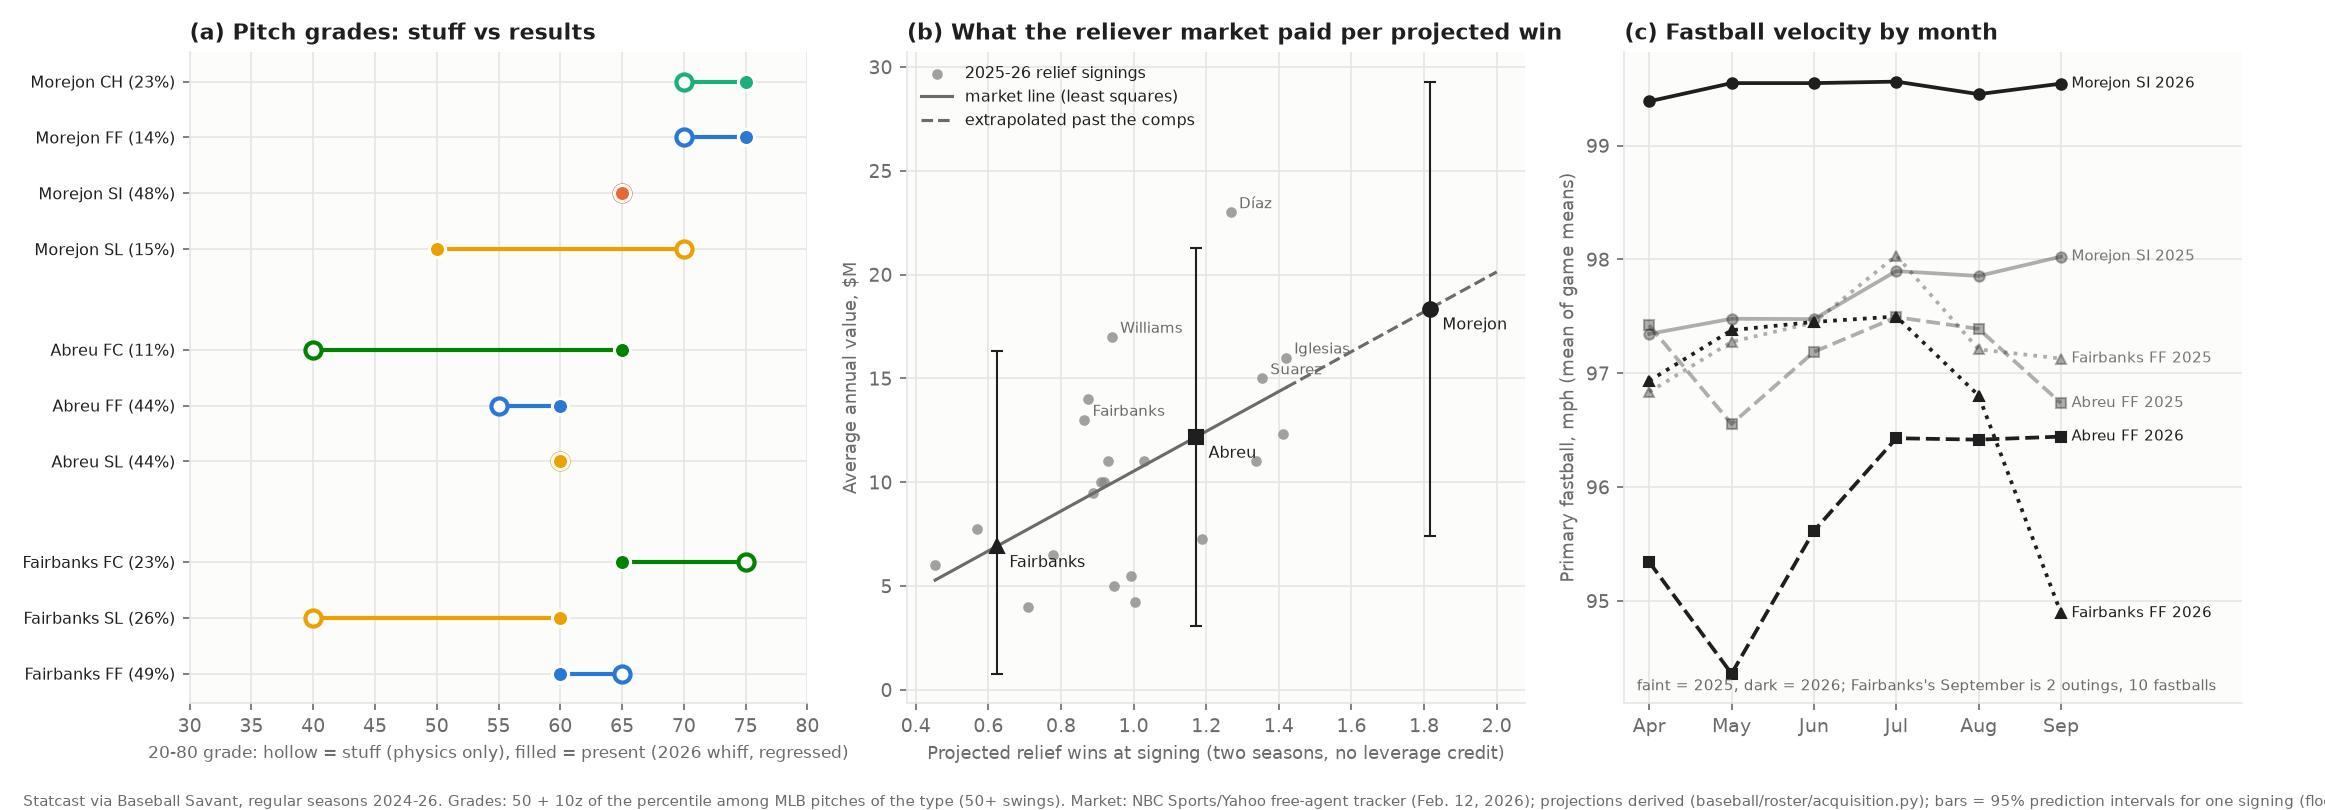
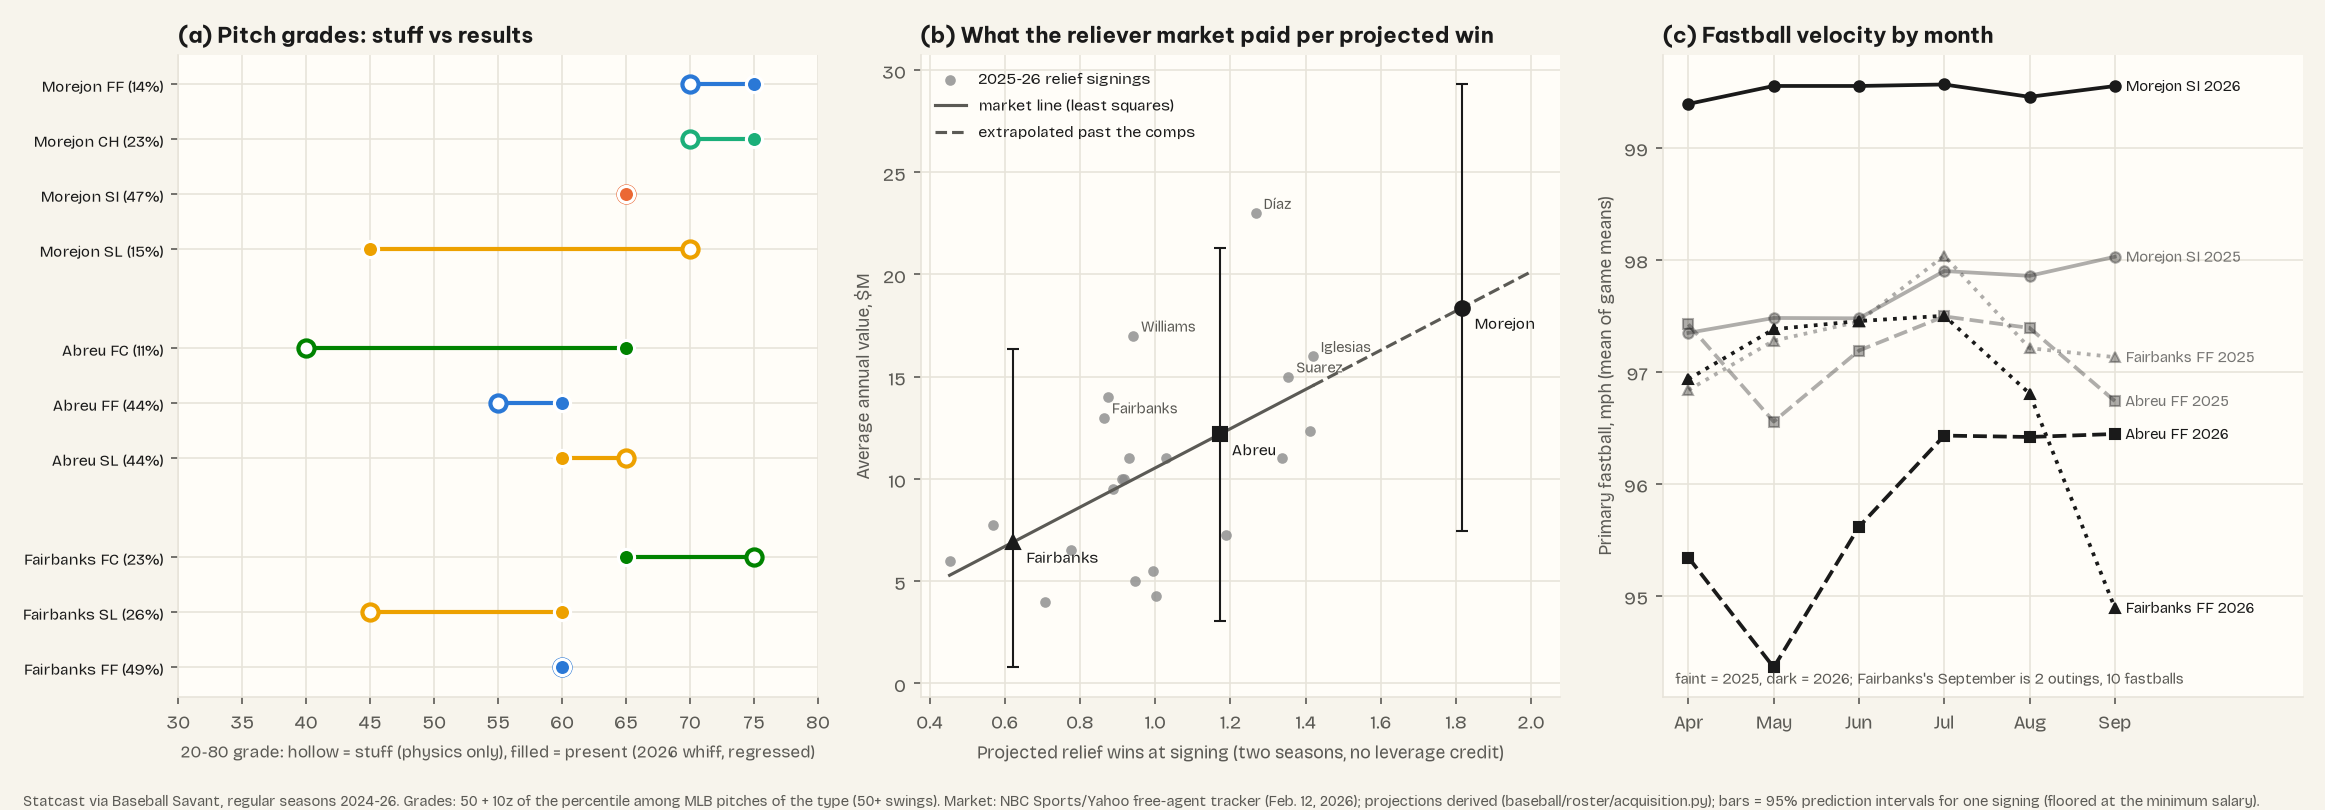
Bullpen memo: figure from the saved Oct. 17 run; Morejón's slider present grade is 45

diff --git a/tests/test_report_outputs.py b/tests/test_report_outputs.py
@@ -430,7 +430,7 @@ def test_bullpen_memo_model_numbers_are_the_saved_run():
     msl, mch, mff, asl = pitches[mo + "_SL"], pitches[mo + "_CH"], pitches[mo + "_FF"], pitches[ab + "_SL"]
     # single pitches quoted in prose
     assert f"**Stuff grade:** {msl['grade_stuff']} (expected whiff {msl['x_whiff_pct']:.0f}%, {msl['pct_stuff']:.0f}th percentile;" in memo
-    assert f"Graded 50 now and {msl['grade_next']} for 2027" in memo
+    assert f"Graded 45 now and {msl['grade_next']} for 2027" in memo
     assert f"**Stuff:** {pitches[ab + '_FC']['grade_stuff']} (ten refits gave" in memo
     assert f"the four-seamer ({sg(mff['gap'])}) and changeup ({sg(mch['gap'])}) beat their physics, and the slider ({sg(msl['gap'])}) trailed it" in memo
     assert f"got whiffs {mch['gap']:.0f} points above its physics" in memo
@@ -491,13 +491,13 @@ def test_reports_that_quote_pitch_grades_carry_the_refit_range():
     sg = lambda v: f"+{v:.1f}" if v >= 0 else f"\u2212{abs(v):.1f}"
     assert (f"ten refits gave {msl['grade_stuff']['lo']} to {msl['grade_stuff']['hi']} and {msl['x_whiff_pct']['lo']:.1f}% to "
             f"{msl['x_whiff_pct']['hi']:.1f}%)") in memo
-    assert msl["grade_stuff"]["lo"] >= 70 and printed["670970_SL"]["grade_stuff"] >= 70     # "far ahead of its results (50)" holds in every fit
+    assert msl["grade_stuff"]["lo"] >= 70 and printed["670970_SL"]["grade_stuff"] >= 70     # "far ahead of its results (45)" holds in every fit
     assert f"(ten refits gave {afc['grade_stuff']['lo']} to {afc['grade_stuff']['hi']})" in memo
     assert (f"Ten refits gave {sg(mff['gap']['lo'])} to {sg(mff['gap']['hi'])}, {sg(mch['gap']['lo'])} to {sg(mch['gap']['hi'])} and "
             f"{sg(msl['gap']['lo'])} to {sg(msl['gap']['hi'])}, so the signs hold") in memo
     assert mch["gap"]["lo"] > 0 and mff["gap"]["lo"] > 0 and msl["gap"]["hi"] < 0
     assert f"(ten refits gave {mch['proj_whiff_pct']['lo']:.1f}% to {mch['proj_whiff_pct']['hi']:.1f}%)" in memo and mch["pct_next"]["lo"] >= 98.5
-    assert f"ten refits gave {msl['grade_stuff']['lo']} to {msl['grade_stuff']['hi']}) is far ahead of its results (50)" in memo
+    assert f"ten refits gave {msl['grade_stuff']['lo']} to {msl['grade_stuff']['hi']}) is far ahead of its results (45)" in memo
     # no ranking or role rests on a grade that moved: the two best 2027 grades of each pitcher keep the formula OFP at its cap
     for pid, control in (("670970", 60), ("650556", 40), ("664126", 40)):
         lows = sorted((p["grade_next"]["lo"] for k, p in pitches.items() if k.startswith(pid)), reverse=True)

diff --git a/reports/2026-bullpen-acquisition-memo.md b/reports/2026-bullpen-acquisition-memo.md
@@ -21,7 +21,7 @@
 
 ![Pitch grades, the reliever market's price per projected win, and fastball velocity by month](figures/2026-bullpen-acquisition-memo.png)
 
-*Figure note (Nov. 15): the hollow stuff markers come from an earlier fit. Three sit 5 points from the tables below (Abreu's slider, Fairbanks's four-seamer and slider). The tables are the saved run.*
+*Figure note (Nov. 23): the figure is redrawn from the saved Oct. 17 run, so every marker matches the tables below.*
 
 ## Decision summary
 
@@ -122,7 +122,7 @@
 | Who misses the most bats next year? | **Edge engine** (validated two-season whiff projection, blends results and stuff): Abreu 33.1%, Morejón 31.0%, Fairbanks 29.8% | **The projection** (2024-26 relief run value, regressed; counts walks, contact and grounders): Morejón +0.83, Abreu +0.37, Fairbanks +0.18 | Both are right about different things. Abreu's gap is walks, which a whiff model can't see. Morejón's edge includes a 55% regressed ground-ball rate (Atlas year-to-year persistence 0.92). I rank on run value and use the whiff projection to establish that Abreu's swing-and-miss survived 2026 |
 | What is Morejón worth? | **Roster engine** ($/WAR tiers): about $30.7M a year | **Reliever market line:** his value is $18.1M; his expected price is $18.4M | They are on different win scales. This memo's wins use a fringe-arm replacement level that isn't calibrated to fWAR, and FanGraphs' $/WAR is set in fWAR (and excludes relievers). The engine column is an order of magnitude, not a price. I price only with the market line, which uses the same projection on both sides |
 | Did Fairbanks's slider get better? | **Levers study:** every confirmed slider lever he moved (drop +3.1 in, speed gap +1.5 mph, slot −1.6°) implies about +2.9 whiff points | **The stuff model** (levers version, fixed hand mix): expected whiff on the slider fell 5.9 points | The levers study's own result is that the single expected-whiff change predicts better than lever lists (pooled +7.5 points of squared error). Its slider-drop and speed-gap gains are also "not shown to last." His slider whiff jump (30.8% → 40.5%, 79 swings) is treated as mostly noise. Usage fell from 40% to 26%, which by itself lowers hitters' familiarity |
-| Is Morejón's slider a weakness? | **Stuff grade:** 70 (expected whiff 41%, 97th percentile; ten refits gave 70 to 75 and 41.6% to 44.4%) | **Present grade:** 50 (30% whiffs, 73 tracked swings) | Slider whiff reaches r = 0.5 at about 41 swings (Atlas), so the regressed rate already carries most of the weight, and it's average. Graded 50 now and 50 for 2027 (the engine's projection). A possible lever, not a flaw |
+| Is Morejón's slider a weakness? | **Stuff grade:** 70 (expected whiff 41%, 97th percentile; ten refits gave 70 to 75 and 41.6% to 44.4%) | **Present grade:** 45 (30% whiffs, 73 tracked swings) | Slider whiff reaches r = 0.5 at about 41 swings (Atlas), so the regressed rate already carries most of the weight, and it's a tick below average. Graded 45 now and 50 for 2027 (the engine's projection). A possible lever, not a flaw |
 | Abreu's cutter (new in 2026) | **Stuff:** 40 (ten refits gave 35 to 40) | **Present:** 65 (36% whiffs, 61 swings) | Results beating stuff carries over between seasons (edge engine, r ≈ 0.55), but 61 swings in one season isn't a pattern. It's 11% of his mix and doesn't drive the grade |
 
 ## 1. The need: why the Rangers, why a reliever
@@ -252,7 +252,7 @@ The mapping is 50 + 10z of the percentile, to the nearest 5 (Method).
 |---|---|---|---|---|---|---|---|---|
 | Sinker | 47.6% (55 / 43) | 99.5 | 9.2 / 16.0 | 19.3 (311) | 65 | 60 | 65 | His primary pitch. 58% ground balls overall |
 | Changeup | 23.1% (2 / 36) | 92.1 | −1.1 / 10.7 | 56.0 (182) | 75 | 75 | 70 | 7% of pitches in 2025, 23% in 2026; almost only to RHH |
-| Slider | 15.2% (27 / 8) | 89.4 | −0.5 / −5.7 | 29.9 (77; 73 tracked) | 50 | 50 | 70 | Results trail the physics (small sample) |
+| Slider | 15.2% (27 / 8) | 89.4 | −0.5 / −5.7 | 29.9 (77; 73 tracked) | 45 | 50 | 70 | Results trail the physics (small sample) |
 | Four-seamer | 14.2% (16 / 13) | 99.3 | 15.2 / 6.0 | 42.3 (123) | 75 | 75 | 70 | A carry four-seamer at 99 |
 | Control | uBB 6.0% (BB 8.0% with 7 intentional) | | | | 60 | 60 | | 2024-25 uBB 7.0% and 4.9% |
 
@@ -304,7 +304,7 @@ The mapping is 50 + 10z of the percentile, to the nearest 5 (Method).
 | Slider slot | −2.2° (lower) | +1.22 per 3° higher | Confirmed | −0.9 | Year-two gain, borderline |
 | Sinker velocity | +1.85 mph | +0.18 per mph | Not detected (sinkers) | +0.3 | Not followed |
 
-- **The open lever is the slider.** Its physics grade (70; ten refits gave 70 to 75) is far ahead of its results (50), and the study can't say which change would close that gap.
+- **The open lever is the slider.** Its physics grade (70; ten refits gave 70 to 75) is far ahead of its results (45), and the study can't say which change would close that gap.
 
 **Familiarity:**
 - **Low exposure:** as a reliever, hitters had seen almost none of his pitches earlier in the game (0.00 same-type pitches in earlier PAs) and 0.30 changeups in earlier games per changeup.
@@ -667,7 +667,9 @@ The mapping is 50 + 10z of the percentile, to the nearest 5 (Method).
 - **Morejón's 2026 gaps:** changeup +15.1 to +12.9, four-seamer +13.6 to +15.2, slider −12.0 to −11.1. The changeup projection went from 48.9% to 49.6%.
 - **Expected whiff and gap by season:** all nine lines moved, by 1.5 points at most. One read changed: Fairbanks's physics no longer "improved every year" (28.3%, 26.6%, 30.8%). They were best in 2026.
 - **Engine whiff projections:** nine of the thirteen in the candidate table moved by 0.1 or 0.2 (Abreu 32.9% to 33.1%, Morejón 30.9% to 31.0%, Fairbanks 29.9% to 29.8%).
-- **What did not move:** the ranking, the roles, the OFPs (each formula value is still 60 before the overrides), the prices and the recommendation. Present grades do not use the model and are unchanged.
+- **What did not move:** the ranking, the roles, the OFPs (each formula value is still 60 before the overrides), the prices and the recommendation. Present grades do not use the model, but they depend on which swings the run tracks: see the Nov. 23 correction.
+
+- **Correction (Nov. 23):** rerunning `bb bullpen-case` on the saved Oct. 17 Edge Board run gives Morejón's slider a present grade of 45, not the 50 I printed. Its regressed whiff rate is 31.3%, the 40.0th percentile of 279 slider-group pitches, just under the 45/50 line (about 40.1). The 50 came from an earlier fit that wasn't saved (40.4th percentile): 39 pitches had different tracked-swing counts between the runs, which shifts the comparison pool. The other 29 present, 2027 and stuff grades match the saved run exactly. His OFP, role, ranking, price and the recommendation don't change, because his OFP rests on the sinker, changeup and four-seamer. The figure is now drawn from the saved run.
 - **The figure** was drawn from the earlier fit and has not been redrawn. Three of its hollow stuff markers sit 5 points from this table: Abreu's slider and Fairbanks's four-seamer and slider.
 
 ## Method

diff --git a/LOG.md b/LOG.md
@@ -2,6 +2,11 @@
 
 Newest first. One entry per working session: what was built, what was decided, what was learned.
 
+## 2026-11-23: Bullpen memo figure from the saved run, and one grade corrected
+
+- I reran `bb bullpen-case` on the saved Oct. 17 Edge Board run and the 2024-26 pitch files. 29 of 30 grades match the memo. Morejón's slider present grade comes out 45, not 50: its regressed whiff rate (31.3%) sits at the 40.0th percentile of 279 slider-group pitches, just under the 45/50 line. The 50 came from an earlier fit that wasn't saved.
+- The memo now prints 45, says why in a dated correction, and the figure is drawn from the saved run, so every marker matches the tables. His OFP, role, ranking, price and the recommendation don't change.
+
 ## 2026-11-23: The packet in a Baseball Savant layout
 **Built**
 - **A Savant-style packet:** a white page with the five views in a light band, the board as a sortable leaderboard (Savant table styling, a search box, a text line of the two calls under each name on phones), player cards with Savant's header and percentile bubbles, and the framing leaderboard as a Savant table with red and blue run bars.
